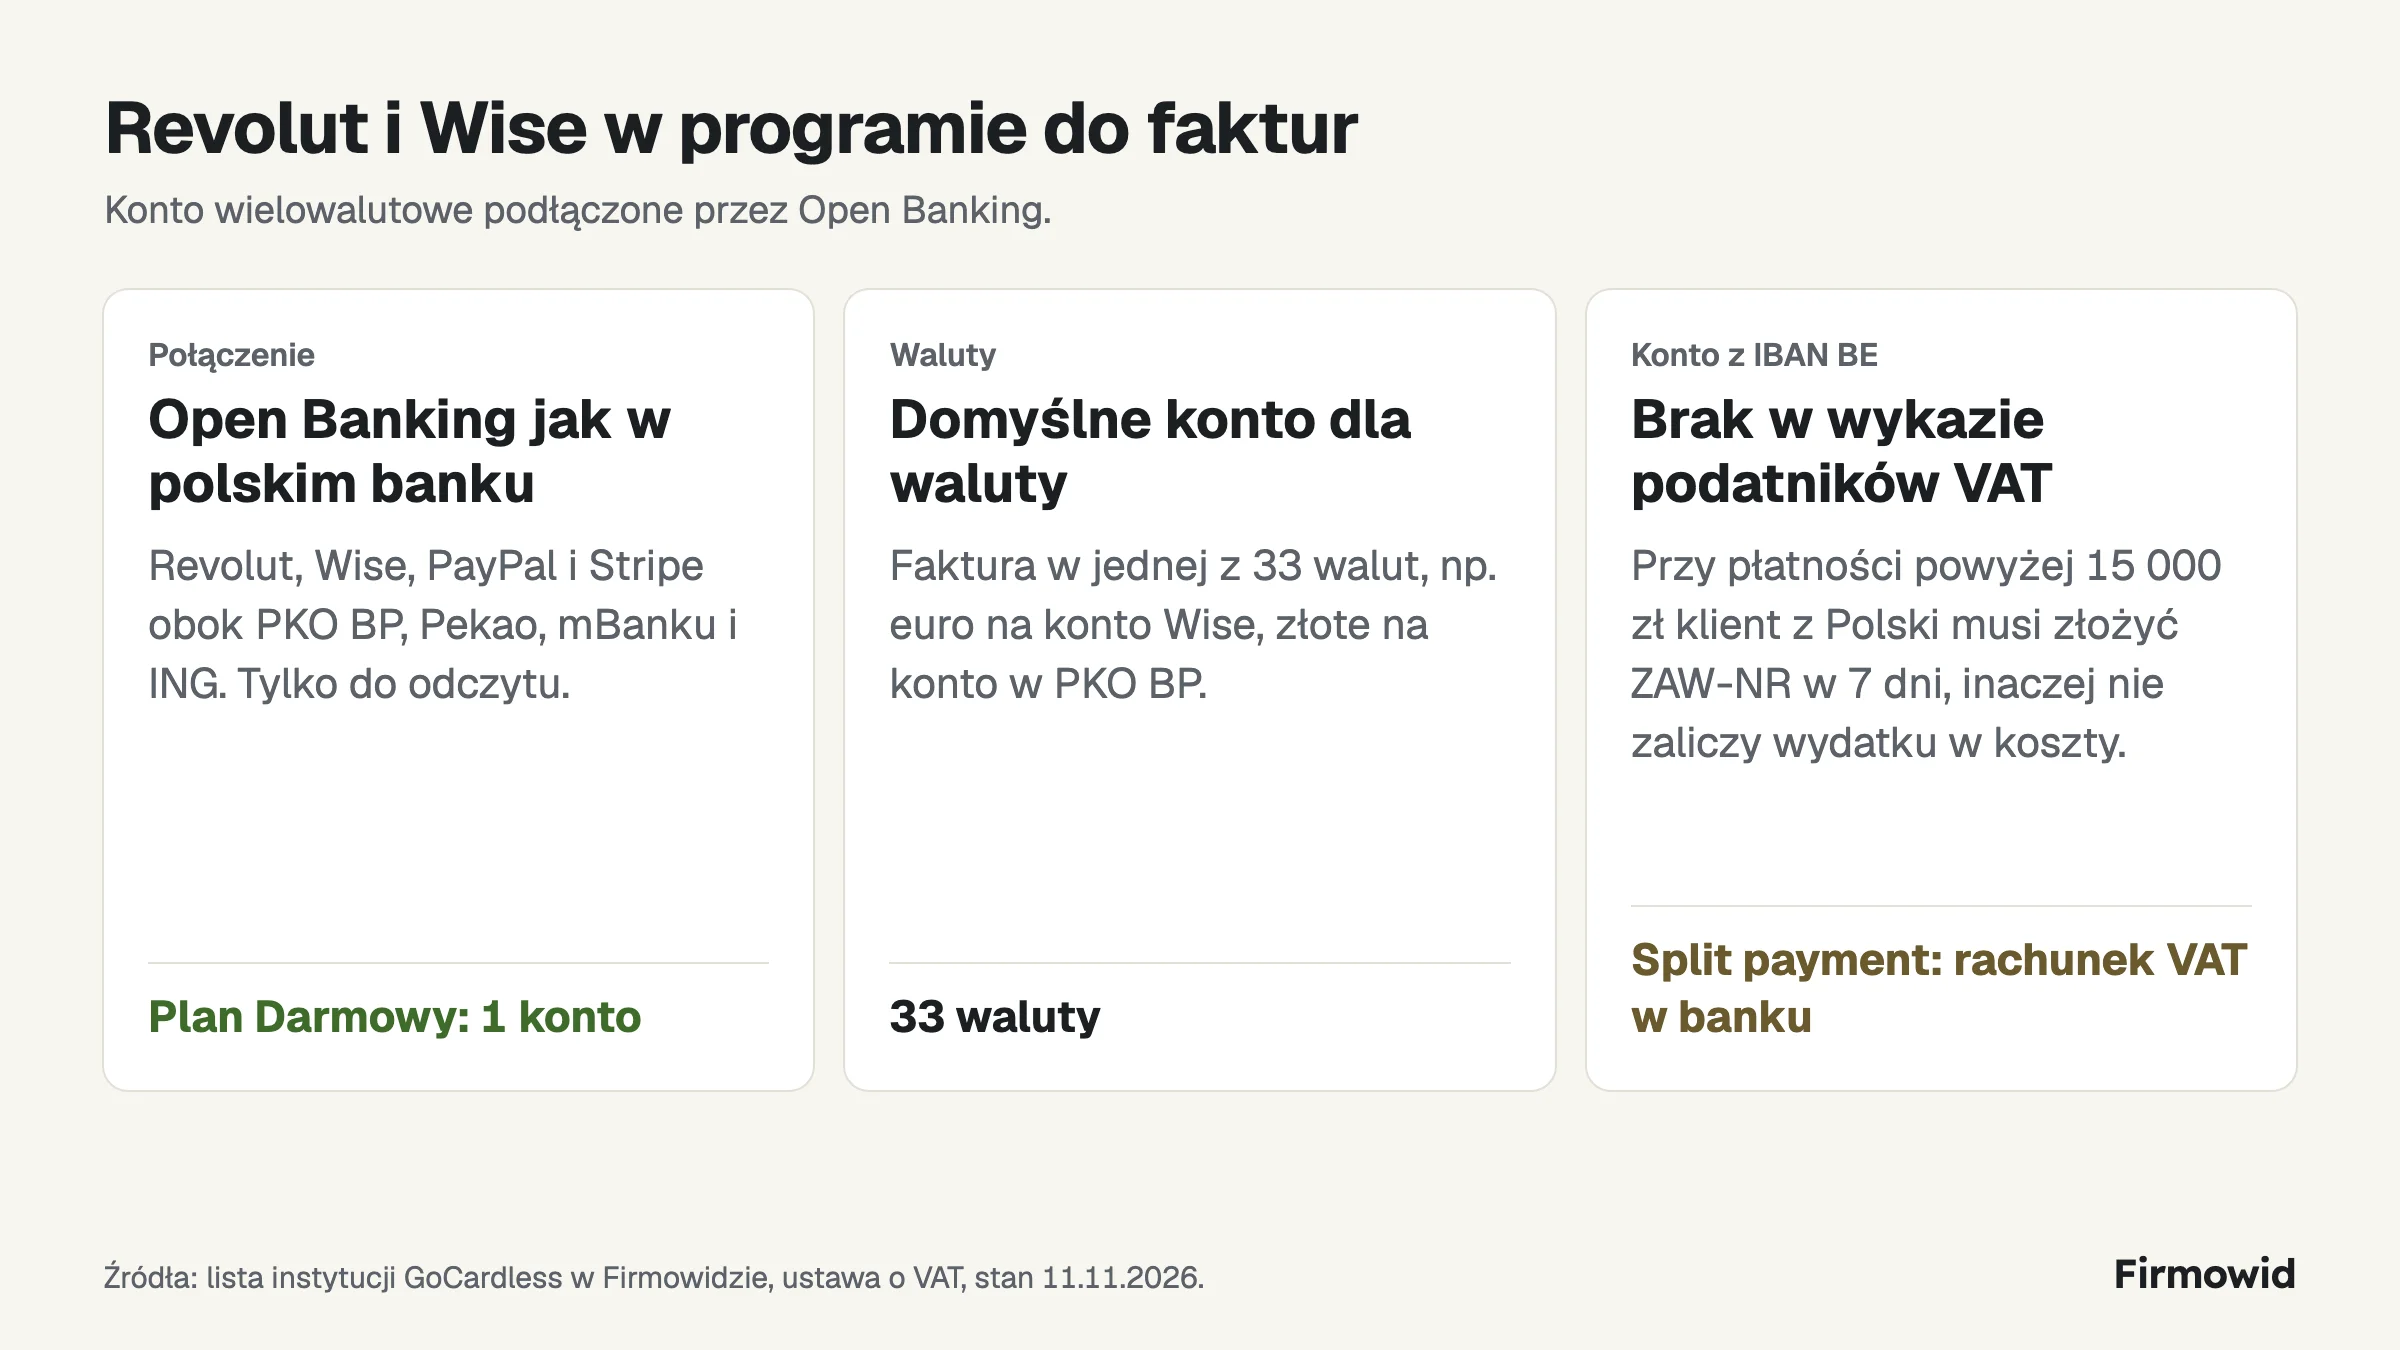
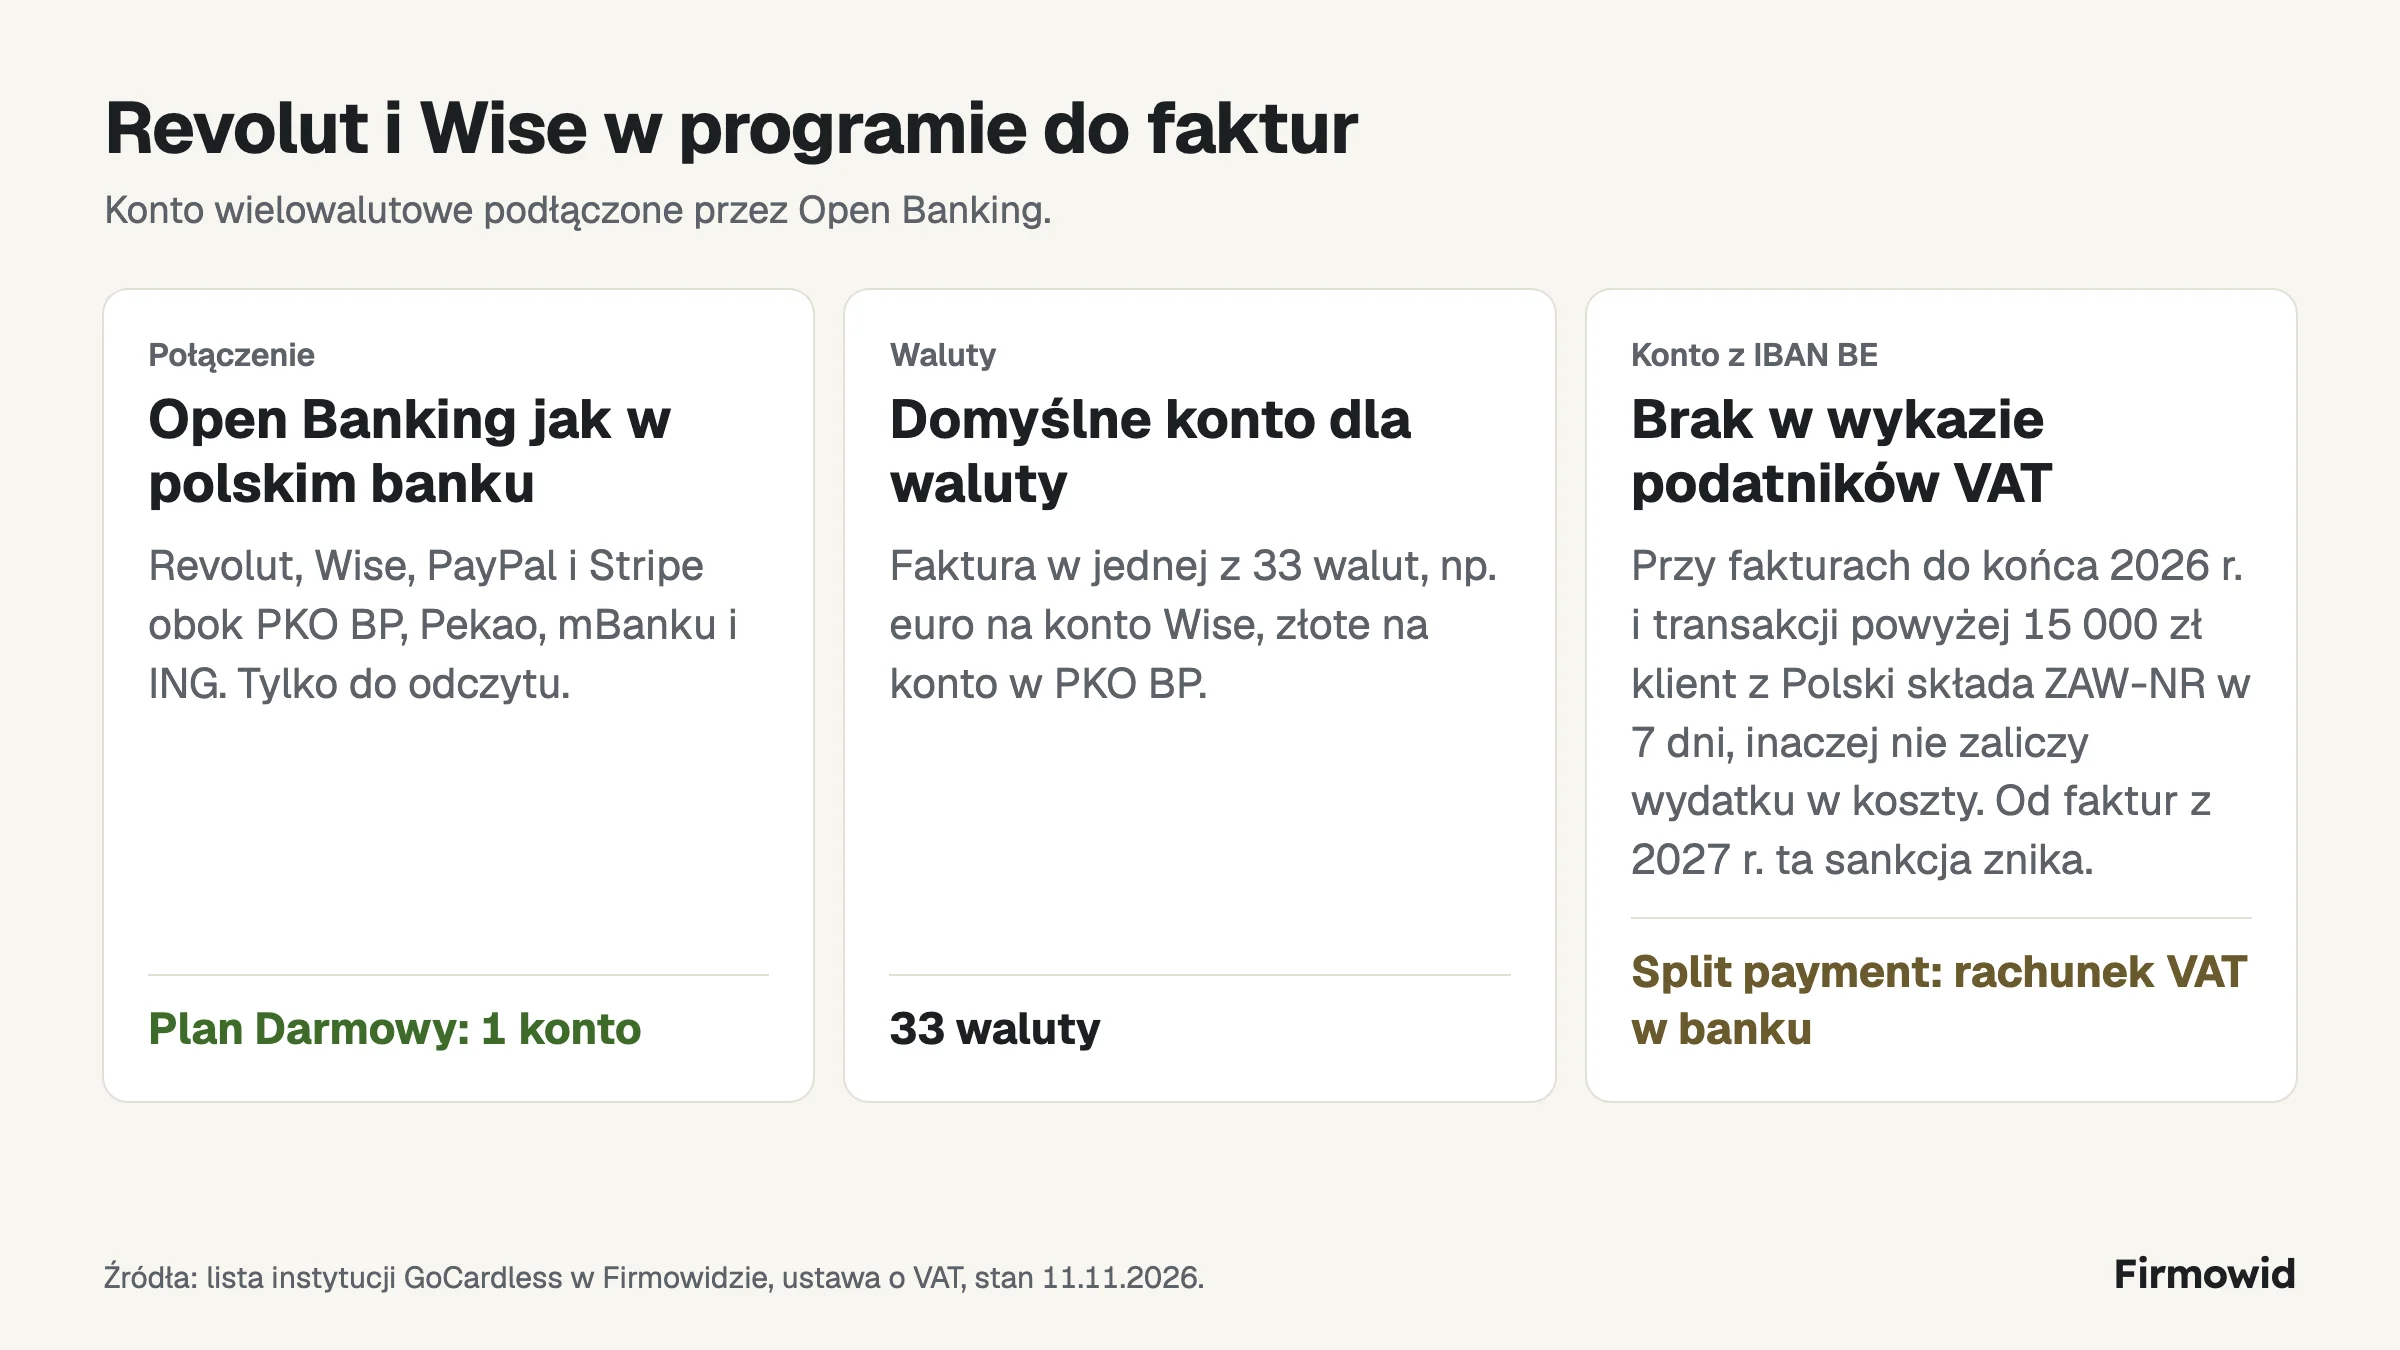
fix(landing): white list cost rule changes for invoices from 2027
Addresses review feedback on PR #415.

diff --git a/priv/guides/revolut-wise-program-do-faktur.md b/priv/guides/revolut-wise-program-do-faktur.md
@@ -23,13 +23,13 @@ Faktura może być w jednej z 33 walut. Każda waluta ma swoje domyślne konto: 
 
 ## Faktura w euro w KSeF
 
-Kwoty na fakturze w walucie obcej zostają w tej walucie, ale według art. 106e ust. 11 ustawy o VAT kwotę podatku podaje się także w złotych. Kurs: średni NBP z dnia roboczego przed obowiązkiem podatkowym. Przy np II dla firmy z UE podatku nie ma, więc nie ma czego przeliczać.
+Kwoty na fakturze w walucie obcej zostają w tej walucie, ale według art. 106e ust. 11 ustawy o VAT kwotę podatku podaje się także w złotych. Kurs: średni NBP z dnia roboczego przed obowiązkiem podatkowym, a gdy faktura powstała wcześniej, przed dniem jej wystawienia. Przy np II dla firmy z UE podatku nie ma, więc nie ma czego przeliczać.
 
 ## Konto z zagranicznym IBAN
 
-Konta w euro z Wise mają belgijski IBAN, z BE na początku, a takich numerów nie ma w wykazie podatników VAT. Klient z Polski, który płaci na taki rachunek ponad 15 000 zł, nie zaliczy wydatku w koszty, chyba że w 7 dni złoży ZAW-NR. Do faktur z obowiązkowym split paymentem potrzebny jest rachunek VAT, a ten prowadzą banki i SKOK-i.
+Konta w euro z Wise mają belgijski IBAN, z BE na początku, a takich numerów nie ma w wykazie podatników VAT. Przy fakturach wystawionych do końca 2026 r. klient z Polski, który za transakcję powyżej 15 000 zł płaci na taki rachunek, nie zaliczy wydatku w koszty, chyba że w 7 dni złoży ZAW-NR. Od faktur wystawionych 1 stycznia 2027 r. ta sankcja w PIT i CIT znika. Do faktur z obowiązkowym split paymentem potrzebny jest rachunek VAT, a ten prowadzą banki i SKOK-i.
 
-![Revolut i Wise łączą się z Firmowidem przez Open Banking jak polskie banki, tylko do odczytu. Każda z 33 walut może mieć domyślne konto. Konto Wise w euro ma belgijski IBAN, którego nie ma w wykazie podatników VAT, więc przy płatności powyżej 15 000 zł klient składa ZAW-NR.](/images/guides/revolut-wise-konto-w-programie-do-faktur.webp)
+![Revolut i Wise łączą się z Firmowidem przez Open Banking jak polskie banki, tylko do odczytu. Każda z 33 walut może mieć domyślne konto. Konto Wise w euro ma belgijski IBAN, którego nie ma w wykazie podatników VAT, więc przy fakturach z 2026 r. i transakcji powyżej 15 000 zł klient składa ZAW-NR, a od faktur z 2027 r. ta sankcja w PIT i CIT znika.](/images/guides/revolut-wise-konto-w-programie-do-faktur.webp)
 
 ## Źródła
 
